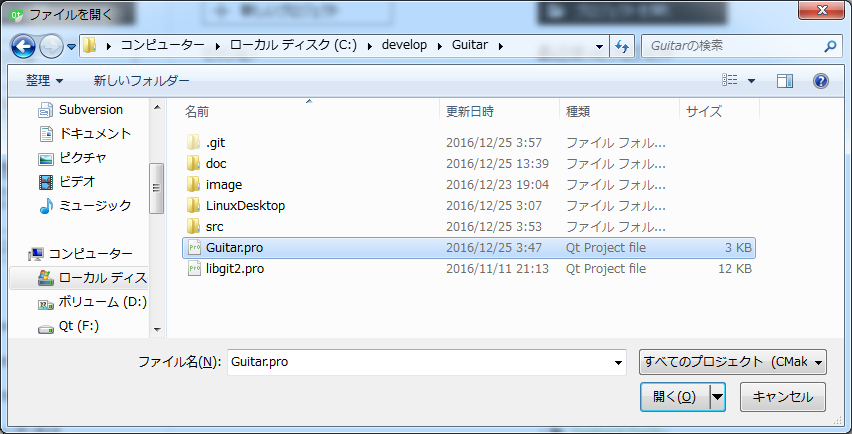
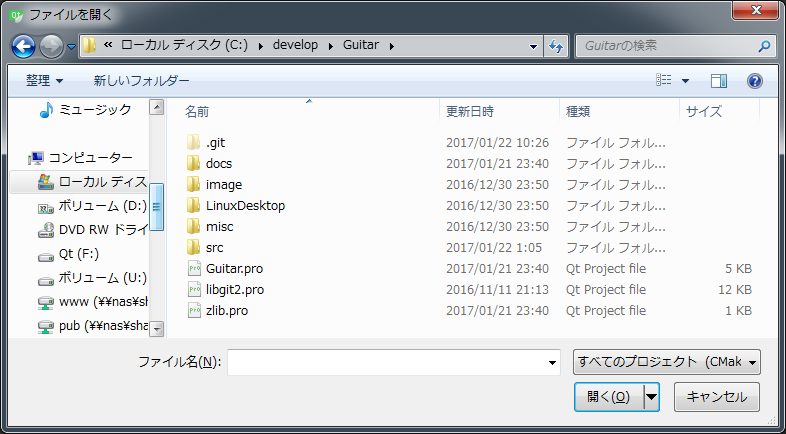
ドキュメント更新

diff --git a/docs/build.html b/docs/build.html
@@ -74,6 +74,16 @@
 <p>[エディタ]の設定、[コードスタイル]の設定を確認します。</p>
 <h2>ソースコードを取得する</h2>
 <p>作業用フォルダを作成します。各自好みの場所で構いません。筆者の場合、Windowsでは C:\develop 、Linuxでは /home/soramimi/develop としています。</p>
+<p>Guitarとzlibを同じ階層に配置します。</p>
+<ul class="foldertree">
+  <li class="folder">C:\develop
+    <ul>
+      <li class="folder">Guitar</li>
+      <li class="folder">zlib  </li>
+    </ul>
+  </li>
+</ul>
+<h3>Guitar</h3>
 <p><img src="github.png" width="20" height="16" alt="guthub"><a href="https://github.com/soramimi/Guitar">https://github.com/soramimi/Guitar</a> にアクセスします。</p>
 <p><img src="repo.png" width="995" height="168" class="border"></p>
 <p>右にある[Clone or download]を押すと、ソースコードを取得するためのアドレスが表示されます。</p>
@@ -82,6 +92,10 @@
 </pre>
 <p>SSHを使用する場合</p>
 <pre>C:\develop&gt;git clone git@github.com:soramimi/Guitar.git
+</pre>
+<h3>zlib</h3>
+<p>同じ要領で、<a href="https://github.com/madler/zlib">zlib</a>もクローンします。</p>
+<pre>C:\develop&gt;git clone https://github.com/madler/zlib.git
 </pre>
 <h2>ビルドの準備</h2>
 <h4>prepare.rb</h4>
@@ -93,26 +107,14 @@
   <li>win.rc … Windows用のバージョン情報を定義します</li>
   <li>Info.plist … macOS用のバージョン情報を定義します</li>
 </ul>
-<h4>zlib</h4>
-<p>（2017-01-20 追記）</p>
-<p><a href="http://www.zlib.net/">zlib公式サイト</a>から、最新のzlibをダウンロードします。これを展開し、以下のようなフォルダ構成にします。</p>
-<ul class="foldertree">
-  <li class="folder">C:\develop
-    <ul>
-      <li class="folder">Guitar </li>
-      <li class="folder">zlib-1.2.11</li>
-    </ul>
-  </li>
-</ul>
-<p>Qt Creator から zlib.pro を開きます。</p>
-<p>ビルドディレクトリは、Windowsの場合 _build_zlib\debug と _build_zlib\release 、LinuxやmacOSの場合 _build_zlib_Debug と _build_zlib_Release です。</p>
-<p>デバッグ版とリリース版をそれぞれビルドします。</p>
 <h2>プロジェクトを開く</h2>
 <p>Qt Creator の「ようこそ」の画面で、右上の[プロジェクトを開く]ボタンを押します。</p>
-<p>クローンした場所にある Guitar.pro を開きます。 libgit2.pro というのは後述しますが、とりあえず関係ありません。</p>
-<p><img src="openproject.png" width="852" height="434"></p>
-<h3>ビルド</h3>
-<p>Qt Creator の左にある三角ボタンを押すか、Ctrl+R（実行）を押すと、ビルドと実行が行われます。ビルドだけして、実行したくない場合は、Ctrl+Bを押します。デバッガ上で実行するには、デバッグ開始ボタンかF5キーを押します。</p>
+<p>クローンした場所に、 Guitar.pro と zlib.pro があります。 libgit2.pro というのは後述しますが、とりあえず関係ありません。</p>
+<p><img src="openproject.png" width="786" height="434"></p>
+<h3>zlibのビルド</h3>
+<p>zlib.pro を開き、ビルド（Ctrl+B）を実行します。デバッグ版とリリース版を作成します。</p>
+<h3>Guitarのビルド</h3>
+<p>Guitar.pro を開き、 Qt Creator の左にある三角ボタンを押すか、Ctrl+R（実行）を押すと、ビルドと実行が行われます。ビルドだけして、実行したくない場合は、Ctrl+Bを押します。デバッガ上で実行するには、デバッグ開始ボタンかF5キーを押します。</p>
 <h4>失敗する場合</h4>
 <p>よくあるのが、prepare.rbを実行し忘れて、 version.c が見つからないというエラー。前述した「ビルドの準備」の操作を行うと version.c が作成されます。自動では行われないので、手作業でやる必要があります。</p>
 <h4>追加したソースがコンパイルされないとき</h4>
@@ -145,8 +147,13 @@
               <li class="folder">release          </li>
             </ul>
           </li>
+          <li class="folder">_build_zlib
+            <ul>
+              <li class="folder">debug</li>
+              <li class="folder">release </li></ul></li>
           <li class="folder">Guitar</li>
           <li class="folder">libgit2</li>
+          <li class="folder">zlib</li>
         </ul>
   </li>
 </ul>
@@ -158,8 +165,11 @@
           <li class="folder">_build_Guitar_Release</li>
           <li class="folder">_build_libgit2_Debug</li>
           <li class="folder">_build_libgit2_Release</li>
+          <li class="folder">_build_zlib_Debug</li>
+          <li class="folder">_build_zlib_Release</li>
           <li class="folder">Guitar</li>
           <li class="folder">libgit2</li>
+          <li class="folder">zlib</li>
         </ul>
   </li>
 </ul>

diff --git a/docs/codingstyle.html b/docs/codingstyle.html
@@ -198,7 +198,7 @@ std::shared_ptr&lt;Hoge&gt; hoge_ptr;</pre>
 <h3>switch</h3>
 <ul>
   <li>
-    <p>switchとcaseのじインデントは同じ深さとする。</p>
+    <p>switchとcaseのインデントは同じ深さとする。</p>
   </li>
 </ul>
 <h4>良い</h4>
